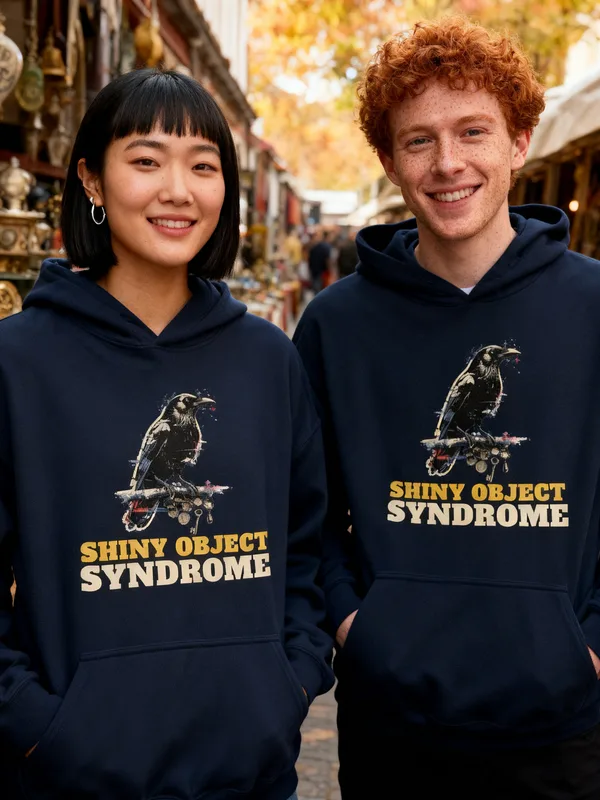
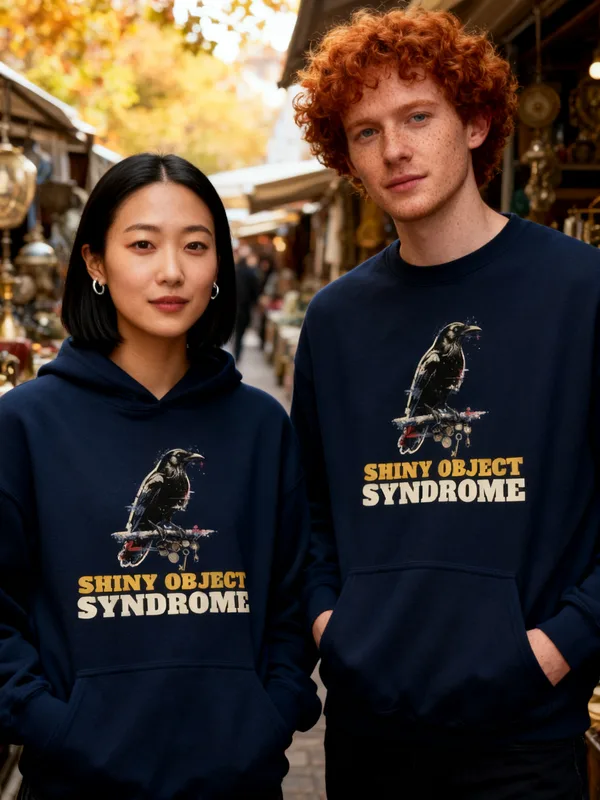
[C] review 450 crow hoodie REDO

diff --git a/src/data/covers.ts b/src/data/covers.ts
@@ -411,7 +411,7 @@ export const covers: Record<string, { src: string; alt: string }> = {
   'mens-pig-wallowing-respectfully-oversized-hoodie': { src: '/covers/mens-pig-wallowing-respectfully-oversized-hoodie.webp', alt: 'Man in a navy Mud Bath Booked Plans Canceled pig oversized hoodie at a farm barnyard fence at sunset with pigs behind him, hands in his pockets' },
   'unisex-outdoors-went-outside-it-was-fine-heavyweight-hoodie': { src: '/covers/unisex-outdoors-went-outside-it-was-fine-heavyweight-hoodie.webp', alt: 'Man and woman in matching storm blue Went Outside It Was Fine heavyweight hoodies at a trailhead parking lot with pines and a mountain behind them' },
   'womens-volleyball-i-only-dive-for-snacks-hoodie': { src: '/covers/womens-volleyball-i-only-dive-for-snacks-hoodie.webp', alt: 'Woman in a navy I Yell Free Ball at Everything volleyball hoodie in a high-school gym with bleachers and a volleyball net behind her, hands in the pouch pocket' },
-  'unisex-crow-shiny-object-syndrome-hoodie': { src: '/covers/unisex-crow-shiny-object-syndrome-hoodie.webp', alt: 'Man and woman in matching navy Shiny Object Syndrome crow hoodie and sweatshirt, smiling in a flea-market aisle with vintage trinkets in autumn light' },
+  'unisex-crow-shiny-object-syndrome-hoodie': { src: '/covers/unisex-crow-shiny-object-syndrome-hoodie.webp', alt: 'Man and woman in matching navy Shiny Object Syndrome crow hoodies, standing in a flea-market aisle with vintage trinkets in autumn light' },
   'womens-chihuahua-cold-since-birth-zip-hoodie': { src: '/covers/womens-chihuahua-cold-since-birth-zip-hoodie.webp', alt: 'Woman seen from behind in an ash grey Cold Since Birth chihuahua zip hoodie outside a coffee shop with a dog bowl by the door, the full back print visible' },
   'unisex-otter-currently-drifting-hoodie': { src: '/covers/unisex-otter-currently-drifting-hoodie.webp', alt: 'Man and woman in matching navy Currently Drifting otter hoodies, smiling on a foggy California beach boardwalk' },
   'womens-western-desert-bloom-cropped-hoodie': { src: '/covers/womens-western-desert-bloom-cropped-hoodie.webp', alt: 'Woman in a black Desert Bloom cowboy boot and cactus cropped hoodie on a desert roadside at sunset with saguaros behind her' },

diff --git a/docs/pipeline/450-crow-hoodie-shiny-object-syndrome.md b/docs/pipeline/450-crow-hoodie-shiny-object-syndrome.md
@@ -1,4 +1,4 @@
-status: REDO
+status: REVIEW
 lane: C
 type: new
 id: 450
@@ -36,3 +36,4 @@ kd: 33
   1. R6.9 (second person), 2nd time on this item: the woman in front is still wearing a crewneck with no hood. Your log said both wear the pullover hoodie, but the sheet shows otherwise. Make one final attempt with the Navy mockup as --design and 'both people wear navy pullover hoodies, hoods visible behind their necks' in the prompt, and check BOTH garments before saving. If it fails again, keep the best, log it, and I'll decide.
   2. Copy (R8.3): "crow hoodie" appears 11 times; use it 3 times at most and vary the rest. In src/data/covers.ts the alt text says "hoodie and sweatshirt"; make it hoodies (it must start "Man and woman …").
   3. (Withdrawn by the director: "Original art, made for Graphic Tees Co." is the SOP line for ai-art and stays.)
+- 2026-10-18 00:58 UTC builder [C]: REDO done (final attempt, fal $0.06, Navy front mockup as --design, both garments named). Woman now wears a navy pullover hoodie with the hood visible. DIRECTOR DECIDES: the man (curly red hair) still shows a round crewneck-style collar with a pouch and no visible hood; print and every word (SHINY OBJECT SYNDROME, crow on branch with keys and caps) are clear and untouched on both, hands in pockets, no hair over the print. Copy: "crow hoodie" now 2 times (story + first FAQ question), the rest read "Shiny Object Syndrome hoodie"; covers.ts alt now "Man and woman in matching navy ... crow hoodies, standing in a flea-market aisle...". Registry unchanged. Sheet regenerated.

diff --git a/docs/intake-log.md b/docs/intake-log.md
@@ -1,3 +1,4 @@
+2026-10-18 00:59 UTC — [C] REVIEW #450 Shiny Object Syndrome crow hoodie REDO (woman now in the hoodie; man shows no hood: director call; copy and alt fixed; fal $0.06).
 2026-10-18 00:25 UTC — [B] REVIEW #492 Women's Nurse – Embroidered Night Shift Silly Goose Crewneck (DRAFT, synced 12/12, Sand + Sport Grey, navy thread; fal $0.10).
 2026-10-18 00:51 UTC — [C] REVIEW #364 Orange Slice Manager zip hoodie REDO (hood visible, print composited on cover, Navy back mockup added; fal $0.06).
 RUNNING lane C since 2026-10-18 00:30 UTC
